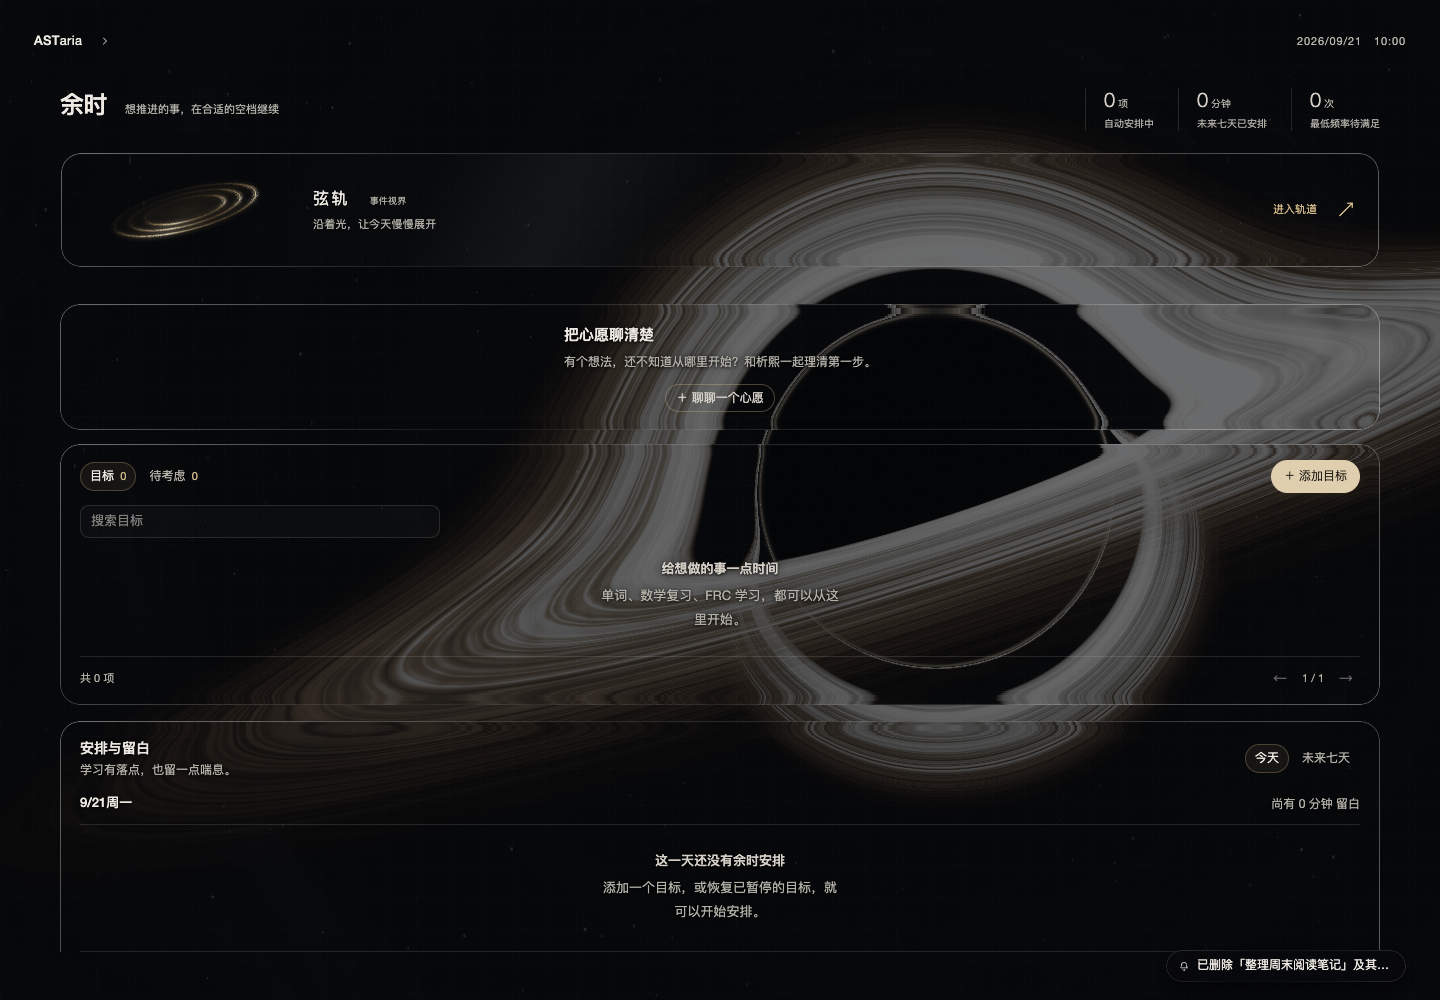
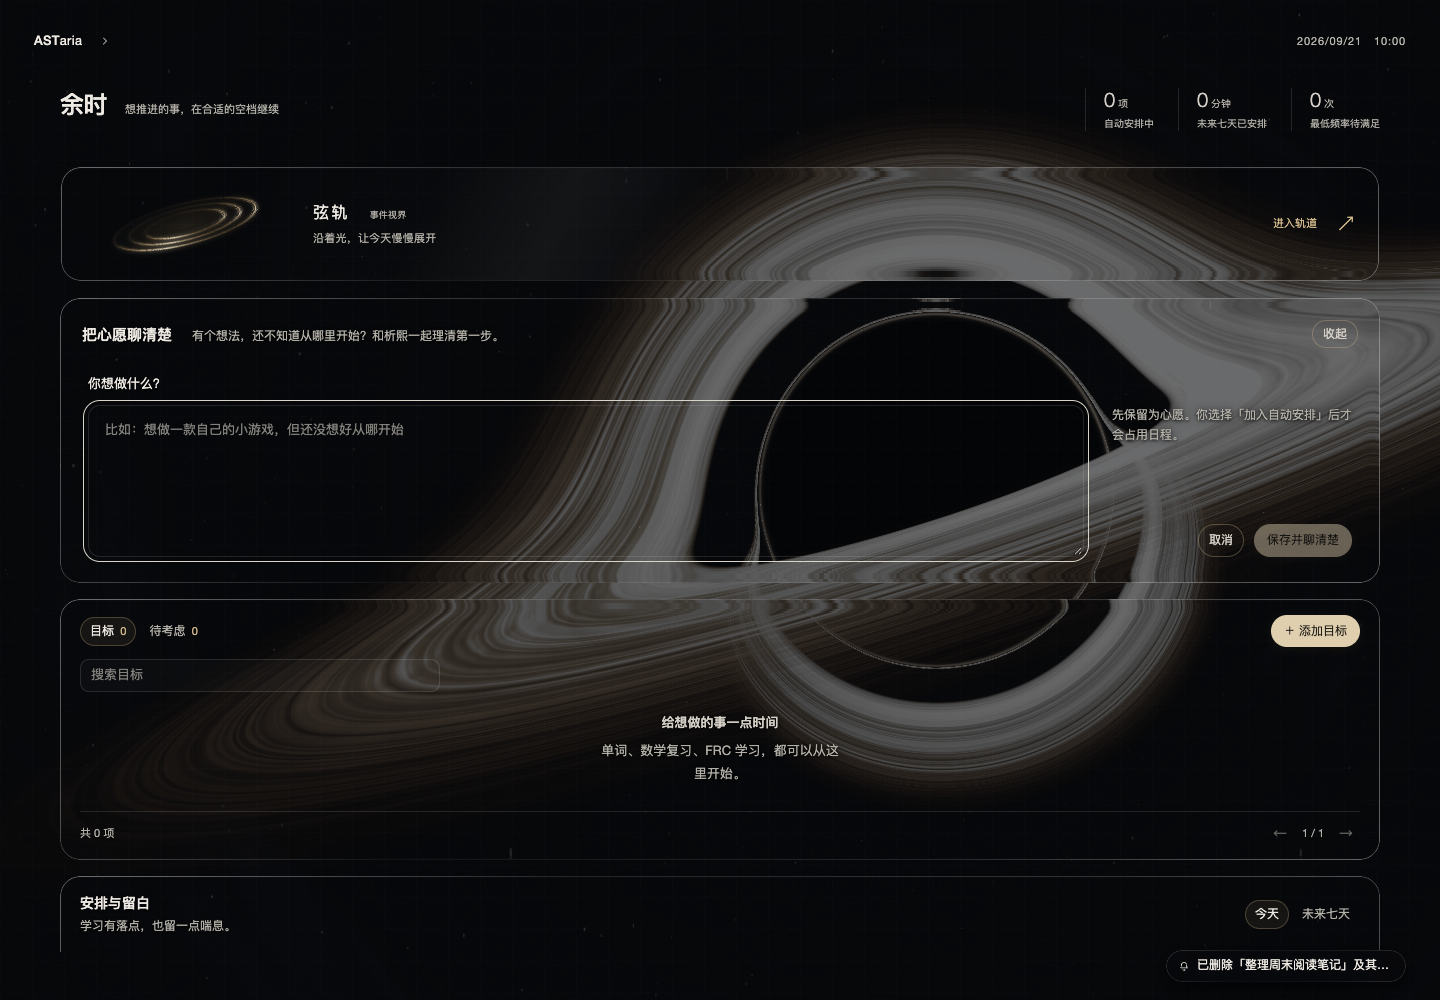
fix: polish beta.5 wish layout and circular paging controls

diff --git a/src/xixi/FreeTimePanel.tsx b/src/xixi/FreeTimePanel.tsx
@@ -24,8 +24,8 @@ const EMPTY_DRAFT: Draft = { title: '', priority: 'normal', minPerWeek: '3', ses
 const errorText = (reason: unknown) => reason instanceof Error ? reason.message : '暂时无法完成，请重试'
 const dayLabel = (date: string, short = false) => new Intl.DateTimeFormat('zh-CN', short ? { weekday: 'short' } : { weekday: 'short', month: 'numeric', day: 'numeric' }).format(agendaDate(date) ?? new Date())
 
-function Pane({ children, className = '', blur = 0 }: { children: ReactNode; className?: string; blur?: number }) {
-  return <section className={`free-time-pane ${className}`}><MeasuredGlassSurface radius={20} material={{ transmission: 100, blur, rim: 40, shadow: 0 }} /><div className="free-time-pane-content">{children}</div></section>
+function Pane({ children, className = '', blur = 0, settleResize = false }: { children: ReactNode; className?: string; blur?: number; settleResize?: boolean }) {
+  return <section className={`free-time-pane ${className}`}><MeasuredGlassSurface radius={20} settleResize={settleResize} material={{ transmission: 100, blur, rim: 40, shadow: 0 }} /><div className="free-time-pane-content">{children}</div></section>
 }
 
 // Retain editors across navigation without rerendering them for every camera
@@ -46,7 +46,10 @@ export const FreeTimePanel = memo(function FreeTimePanel({ onClarifyWish, onChan
   const [filter, setFilter] = useState('')
   const [editing, setEditing] = useState<Editing | null>(null)
   const [wishEditing, setWishEditing] = useState<Wish | null>(null)
-  const [newWish, setNewWish] = useState<string | null>(null)
+  const [newWish, setNewWish] = useState('')
+  const [wishOpen, setWishOpen] = useState(false)
+  const wishTrigger = useRef<HTMLButtonElement>(null)
+  const wishInput = useRef<HTMLTextAreaElement>(null)
   const [date, setDate] = useState(today)
   const [period, setPeriod] = useState<'today' | 'week'>('today')
   const [planPage, setPlanPage] = useState(0)
@@ -77,6 +80,17 @@ export const FreeTimePanel = memo(function FreeTimePanel({ onClarifyWish, onChan
   useEffect(() => { if (period === 'today') setDate(today) }, [today, period])
   useEffect(() => { setPage(0) }, [filter, tab])
   useEffect(() => { setPlanPage(0) }, [date])
+  useEffect(() => {
+    if (!wishOpen || !active) return
+    const frame = requestAnimationFrame(() => wishInput.current?.focus({ preventScroll: true }))
+    return () => cancelAnimationFrame(frame)
+  }, [wishOpen, active])
+
+  const closeWish = (discard = false) => {
+    wishTrigger.current?.focus({ preventScroll: true })
+    setWishOpen(false)
+    if (discard) setNewWish('')
+  }
 
   const announce = (message: string) => { setNotice(message); onNotice(message) }
   const synchronize = async () => { notifyLocalDataChange(); await refresh(); await onChanged() }
@@ -169,10 +183,10 @@ export const FreeTimePanel = memo(function FreeTimePanel({ onClarifyWish, onChan
     try { await synchronize() } catch (reason) { setError(`牵挂状态已保存，页面同步遇到问题：${errorText(reason)}`) }
   })
   const startWish = () => execute(async () => {
-    const content = newWish?.trim()
-    if (!content) return
+    const content = newWish.trim()
+    if (!wishOpen || !content) return
     const wish = await localApi<Wish>('/companion/wish', { content, evidence: content })
-    setNewWish(null); setTab('considering')
+    setWishOpen(false); setNewWish(''); setTab('considering')
     try { await synchronize() } catch { /* Saved wish remains available to the conversation. */ }
     onClarifyWish(wish)
   })
@@ -201,8 +215,17 @@ export const FreeTimePanel = memo(function FreeTimePanel({ onClarifyWish, onChan
     <div className="free-time-viewport workspace-page-viewport"><div className="free-time-container workspace-page-container">
       <WorkspaceHeading className="free-time-header" title="余时" description="想推进的事，在合适的空档继续" titleId={`${id}-title`} headingRef={heading}><dl className="workspace-metrics free-time-metrics"><div><dt>自动安排中</dt><dd>{goals.filter(isScheduling).length}<small> 项</small></dd></div><div><dt>未来七天已安排</dt><dd>{minutesLabel(weekMinutes).split(/(\d+)/).filter(Boolean).map((part, index) => /\d/.test(part) ? <span key={index}>{part}</span> : <small key={index}>{part}</small>)}</dd></div><div><dt>最低频率待满足</dt><dd>{remaining}<small> 次</small></dd></div></dl></WorkspaceHeading>
       <StringInvitation onEnter={onOpenStrings} glass={glass} />
-      <Pane className="free-time-wish-entry" blur={glass === 'soft' ? 6 : 0}><div><h3>把心愿聊清楚</h3><p>有个想法，还不知道从哪里开始？和析熙一起理清第一步。</p></div><button className="free-time-secondary" type="button" disabled={busy} onClick={() => { setNewWish(''); setEditing(null); setWishEditing(null); setTab('considering') }}>＋ 聊聊一个心愿</button>
-        {newWish !== null && <form className="free-time-wish-start" onSubmit={event => { event.preventDefault(); void startWish() }}><label>你想做什么？<textarea autoFocus required maxLength={600} value={newWish} onChange={event => setNewWish(event.target.value)} placeholder="比如：想做一款自己的小游戏，但还没想好从哪开始" disabled={busy} /></label><p>先保留为心愿。你选择「加入自动安排」后才会占用日程。</p><div><button type="button" className="free-time-secondary" disabled={busy} onClick={() => setNewWish(null)}>取消</button><button type="submit" className="free-time-primary" disabled={busy || !newWish.trim()}>保存并聊清楚</button></div></form>}
+      <Pane className="free-time-wish-entry" blur={glass === 'soft' ? 6 : 0} settleResize>
+        <div className="free-time-wish-heading"><div className="free-time-wish-copy"><h3>把心愿聊清楚</h3><p>有个想法，还不知道从哪里开始？和析熙一起理清第一步。</p></div><button ref={wishTrigger} className="free-time-secondary" type="button" disabled={busy} aria-expanded={wishOpen} aria-controls={`${id}-wish-start`} onClick={() => {
+          if (wishOpen) closeWish()
+          else { setWishOpen(true); setEditing(null); setWishEditing(null) }
+        }}>{wishOpen ? '收起' : '＋ 聊聊一个心愿'}</button></div>
+        <div id={`${id}-wish-start`} className="free-time-wish-reveal" data-open={wishOpen} aria-hidden={!wishOpen} inert={!wishOpen}>
+          <div className="free-time-wish-clip"><form className="free-time-wish-start" onSubmit={event => { event.preventDefault(); void startWish() }}>
+            <label>你想做什么？<textarea ref={wishInput} required maxLength={600} value={newWish} onChange={event => setNewWish(event.target.value)} placeholder="比如：想做一款自己的小游戏，但还没想好从哪开始" disabled={busy || !wishOpen} /></label>
+            <div className="free-time-wish-aside"><p>先保留为心愿。你选择「加入自动安排」后才会占用日程。</p><div className="free-time-wish-actions"><button type="button" className="free-time-secondary" disabled={busy || !wishOpen} onClick={() => closeWish(true)}>取消</button><button type="submit" className="free-time-primary" disabled={busy || !wishOpen || !newWish.trim()}>{busy ? '正在保存…' : '保存并聊清楚'}</button></div></div>
+          </form></div>
+        </div>
       </Pane>
       <div className="free-time-layout">
         <Pane className="free-time-goals" blur={glass === 'soft' ? 6 : 0}><header className="free-time-pane-heading"><div className="free-time-tabs" role="group" aria-label="余时目标分类"><button type="button" aria-pressed={tab === 'goals'} onClick={() => { setTab('goals'); setEditing(null); setWishEditing(null) }}>目标 <small>{goals.length}</small></button><button type="button" aria-pressed={tab === 'considering'} onClick={() => { setTab('considering'); setEditing(null); setWishEditing(null) }}>待考虑 <small>{wishes.length}</small></button></div><button className="free-time-primary" type="button" onClick={() => { setWishEditing(null); setEditing({ draft: EMPTY_DRAFT }) }} disabled={busy}>＋ 添加目标</button></header>

diff --git a/src/xixi/free-time.css b/src/xixi/free-time.css
@@ -4,14 +4,14 @@
 .free-time-background::after { content:''; position:absolute; inset:0; pointer-events:none; opacity:.25; background-image:linear-gradient(#c0c5ce0c 1px,transparent 1px),linear-gradient(90deg,#c0c5ce0c 1px,transparent 1px); background-size:32px 32px }
 .free-time-page[data-grid=false] .free-time-background::after { display:none }
 .free-time-viewport { position:absolute; inset:76px 0 48px; padding:0 var(--home-left,32px); overflow:auto; overscroll-behavior:contain; scrollbar-width:thin }
-.free-time-container { position:relative; width:100%; max-width:var(--workspace-content-width,1320px); min-height:0; height:auto; margin:0 auto; display:flex; flex-direction:column }
+.free-time-container { --ft-pane-gap:16px; position:relative; width:100%; max-width:var(--workspace-content-width,1320px); min-height:0; height:auto; margin:0 auto; display:flex; flex-direction:column; gap:var(--ft-pane-gap) }
 .free-time-header { flex:none; display:flex; align-items:center; justify-content:space-between; gap:24px; min-height:84px; padding:0 3px 20px }
 .free-time-eyebrow { color:var(--ft-gold); font-size:11px; letter-spacing:.13em }
 .free-time-header h2 { margin:2px 0 3px; font-size:27px; line-height:1.25; font-weight:450; letter-spacing:-.02em }
 .free-time-header h2:focus { outline:none }
 .free-time-header p { margin:0; color:var(--ft-muted); font-size:13px }
 .free-time-metrics { --metrics-muted:var(--ft-muted); --metrics-line:var(--ft-line); --metrics-ink:var(--ft-body) }
-.free-time-layout { display:grid; grid-template-columns:minmax(0,1fr); gap:16px; min-height:0 }
+.free-time-layout { display:grid; grid-template-columns:minmax(0,1fr); gap:var(--ft-pane-gap); min-height:0 }
 .free-time-pane { position:relative; min-width:0; min-height:0; border-radius:20px; background:transparent }
 .free-time-pane>.home-glass-measure { position:absolute; inset:0; z-index:0 }
 .p0 .free-time-page .free-time-pane .home-glass-surface { background:transparent }
@@ -191,11 +191,24 @@
 @media (forced-colors:active) {
   .p0 .free-time-page :is(.free-time-primary,.free-time-secondary) { background:ButtonFace; color:ButtonText; border-color:ButtonText }
 }
-.free-time-wish-entry { margin:14px 0 }
-.free-time-wish-entry>.free-time-pane-content { display:flex; align-items:center; flex-wrap:wrap; justify-content:space-between; gap:12px; padding:18px 22px }
-.free-time-wish-entry h3 { margin:0 0 6px; font-size:15px; font-weight:500 }
+.free-time-wish-entry>.free-time-pane-content { display:block; padding:20px 22px }
+.free-time-wish-heading { display:grid; grid-template-columns:minmax(0,1fr) auto; align-items:center; gap:20px; min-height:32px }
+.free-time-wish-copy { display:flex; align-items:baseline; flex-wrap:wrap; gap:6px 20px; min-width:0 }
+.free-time-wish-entry h3 { flex:none; margin:0; font-size:15px; font-weight:500 }
 .free-time-wish-entry p { margin:0; font-size:12px; line-height:1.7; color:var(--ft-muted) }
-.free-time-wish-start { flex-basis:100%; display:grid; gap:10px }
-.free-time-wish-start label { display:grid; gap:8px; font-size:12px }
-.free-time-wish-start textarea { width:100%; min-height:82px; resize:vertical; border:1px solid var(--ft-line); border-radius:12px; background:transparent; color:inherit; padding:12px; font:inherit }
-.free-time-wish-start>div { display:flex; justify-content:flex-end; gap:10px }
+.free-time-wish-reveal { display:grid; grid-template-rows:0fr; opacity:0; visibility:hidden; transition:grid-template-rows 360ms cubic-bezier(.22,.68,.2,1),opacity 240ms ease,visibility 0s 360ms }
+.free-time-wish-reveal[data-open=true] { grid-template-rows:1fr; opacity:1; visibility:visible; transition-delay:0s }
+.free-time-wish-clip { min-height:0; overflow:hidden }
+.free-time-wish-start { display:grid; grid-template-columns:minmax(0,1fr) minmax(210px,240px); align-items:stretch; gap:28px; min-width:0; padding:24px 6px 6px }
+.free-time-wish-start label { display:grid; gap:10px; min-width:0; font-size:13px }
+.free-time-wish-start textarea { box-sizing:border-box; display:block; width:100%; min-width:0; min-height:152px; max-height:360px; resize:vertical; border:1px solid var(--ft-line); border-radius:12px; background:transparent; color:inherit; padding:14px 16px; font:inherit; line-height:1.8; scrollbar-width:thin }
+.free-time-wish-start textarea::placeholder { color:var(--ft-muted); opacity:.72 }
+.free-time-wish-aside { display:flex; flex-direction:column; justify-content:space-between; gap:20px; padding-top:31px }
+.free-time-wish-actions { display:flex; flex-wrap:wrap; justify-content:flex-end; gap:10px }
+.home-workspace[data-motion=reduced] .free-time-wish-reveal { transition:none }
+@media (max-width:700px) {
+  .free-time-wish-entry>.free-time-pane-content { padding:16px }
+  .free-time-wish-heading { gap:12px }
+  .free-time-wish-start { grid-template-columns:minmax(0,1fr); gap:16px; padding-top:20px }
+  .free-time-wish-aside { padding-top:0; gap:16px }
+}

diff --git a/src/planner/planner-layout.css b/src/planner/planner-layout.css
@@ -99,7 +99,7 @@
 .planner .pl-overview-task-page .pl-overview-task-copy small { line-height:1.7 }
 .planner .pl-overview-task-pages { display:flex; align-items:center; justify-content:center; gap:12px; margin-top:10px; color:var(--pl-muted); font-size:10px; font-variant-numeric:tabular-nums }
 .planner .pl-overview-task-pages>span { min-width:36px; text-align:center }
-.planner .pl-overview-task-pages .pl-icon-button { width:26px; height:26px }
+.planner .pl-overview-task-pages .pl-icon-button { box-sizing:border-box; flex:none; width:26px; min-width:26px; height:26px; min-height:26px; padding:0; border-radius:50% }
 .planner .pl-overview-task-pages .pl-icon-button:disabled { opacity:.3; cursor:default }
 .p0 .planner .pl-overview :is(.pl-day-task,.pl-calendar-summary-task,.pl-preparation) { margin:0; padding:9px 10px; min-width:0; border:1px solid transparent; border-left:2px solid #c5b38b66; background:var(--pl-plate); box-shadow:none; border-radius:9px; display:block }
 .p0 .planner .pl-overview :is(.pl-day-task,.pl-calendar-summary-task,.pl-preparation):is(:hover,:focus-visible) { border-color:#cfb58399 }

diff --git a/src/xixi/string-studio.css b/src/xixi/string-studio.css
@@ -74,7 +74,7 @@
 
 /* The same measured glass and 20px corners as .free-time-pane. Keep the
    interactive contents above its sampling layer and let it own the optics. */
-.p0 .free-time-page button.string-invitation { position:relative; display:flex; align-items:center; gap:28px; width:100%; margin:2px 0 22px; padding:22px 24px; border:1px solid transparent; border-radius:20px; background:transparent; box-shadow:none; color:var(--ft-ink); text-align:left; overflow:hidden; transition:border-color 300ms ease,box-shadow 300ms ease }
+.p0 .free-time-page button.string-invitation { position:relative; display:flex; align-items:center; gap:28px; width:100%; margin:0; padding:22px 24px; border:1px solid transparent; border-radius:20px; background:transparent; box-shadow:none; color:var(--ft-ink); text-align:left; overflow:hidden; transition:border-color 300ms ease,box-shadow 300ms ease }
 .string-invitation>.home-glass-measure { z-index:0 }
 .string-invitation>:not(.home-glass-measure) { position:relative; z-index:1 }
 .p0 .free-time-page .string-invitation .home-glass-surface { background:transparent }

diff --git a/docs/RELEASE_NOTES_v0.1.0-beta.5.md b/docs/RELEASE_NOTES_v0.1.0-beta.5.md
@@ -2,7 +2,7 @@
 
 这次更新集中改善日常使用的可靠性：更容易找到心愿澄清，在每周安排里查看单双周，在专注时管理事项；同时修复长对话、初次排程、备份恢复和更新安装中的边界问题。
 
-- **心愿与每周安排**：余时可直接保存并聊清楚新心愿；每周安排总览加入单双周查看和共用首周设置。
+- **心愿与每周安排**：余时可直接保存并聊清楚新心愿；统一玻璃卡片间距，心愿输入采用宽幅布局并平滑展开、收起。每周安排总览加入单双周查看和共用首周设置。
 - **专注与时长**：专注界面提供删除与余时按次管理入口，分别显示当前预计与已排时间；专注/休息时长保存到本机设置。修改估时不会擅自伸长原时段。
 - **更完整的初排**：优先完整连续时段，确实需要拆分时每段至少 15 分钟，避免普通任务的五分钟尾巴；明确的短任务仍可完整安排。无法排下的部分如实显示。
 - **析熙**：高个性保留主见、嘴硬与轻松时的得意，减少固定台词和重复的温柔约束；疲惫时仍可自然表达关心。长回合较早的读取按来源收起，需要时再读，保留已保存操作及最新工具结果。

diff --git a/README.md b/README.md
@@ -11,14 +11,14 @@ ASTaria 是一款本机优先的个人时间与事项应用。和析熙聊作业
 ## 看看 ASTaria
 
 <!-- Screenshots are captured with fictional, isolated demonstration data. -->
-![黑洞首页](docs/images/home.png)
-![日程](docs/images/planner.png)
-![余时](docs/images/free-time.png)
+![黑洞首页：当前事项与析熙入口](docs/images/home.png)
+![日程：课程、任务与空档同屏查看](docs/images/planner.png)
+![余时：展开心愿输入区，与析熙理清第一步](docs/images/free-time.png)
 
 - **析熙**：理解请求、读取空档、记录与安排，修改留下可核对和撤销的回执。支持 DeepSeek API 与本机兼容模型。
 - **日程**：课程、固定活动、任务时段与截止一起查看，支持单双周课表。
 - **工作台**：从现在能开始的事项进入专注，保存步骤和下次继续的线索。
-- **余时与弦轨**：为持续目标安排练习；在地平线里整理日期、分组和顺序。
+- **余时与弦轨**：先把心愿聊清楚，再选择是否加入自动安排；为持续目标留出练习时间，在地平线里整理日期、分组和顺序。
 
 ## 安装
 

diff --git a/CHANGELOG.md b/CHANGELOG.md
@@ -3,6 +3,7 @@
 ## 0.1.0-beta.5 · 2026-09-29
 
 - 改善心愿澄清入口、每周安排单双周总览、共用首周与专注事项管理。
+- 统一余时玻璃卡片间距，心愿输入改为宽幅布局并增加展开、收起动画；修正当天事项翻页按钮被拉成椭圆的问题。
 - 区分当前估时与已排分钟，自动初排优先整段并避免不足15分钟的碎片尾巴。
 - 调整析熙高个性表达，减少固定台词；修复长回合不同读取累积超限、只记录请求和失败重试回执。
 - 增加页面异常恢复、API超时与关键返回结构校验，保存专注时长偏好。

diff --git a/docs/INSTALL.md b/docs/INSTALL.md
@@ -1,7 +1,7 @@
 # macOS beta 安装
 
 ```text
-ASTaria 0.1.0-beta.4 · 小范围内测
+ASTaria 0.1.0-beta.5 · 小范围内测
 
 系统要求：macOS 13 或更新版本，Apple Silicon（M 系列芯片）。不支持 Intel Mac。
 此包采用 ad-hoc 签名，未经 Apple 公证；不是正式公开发行版。
